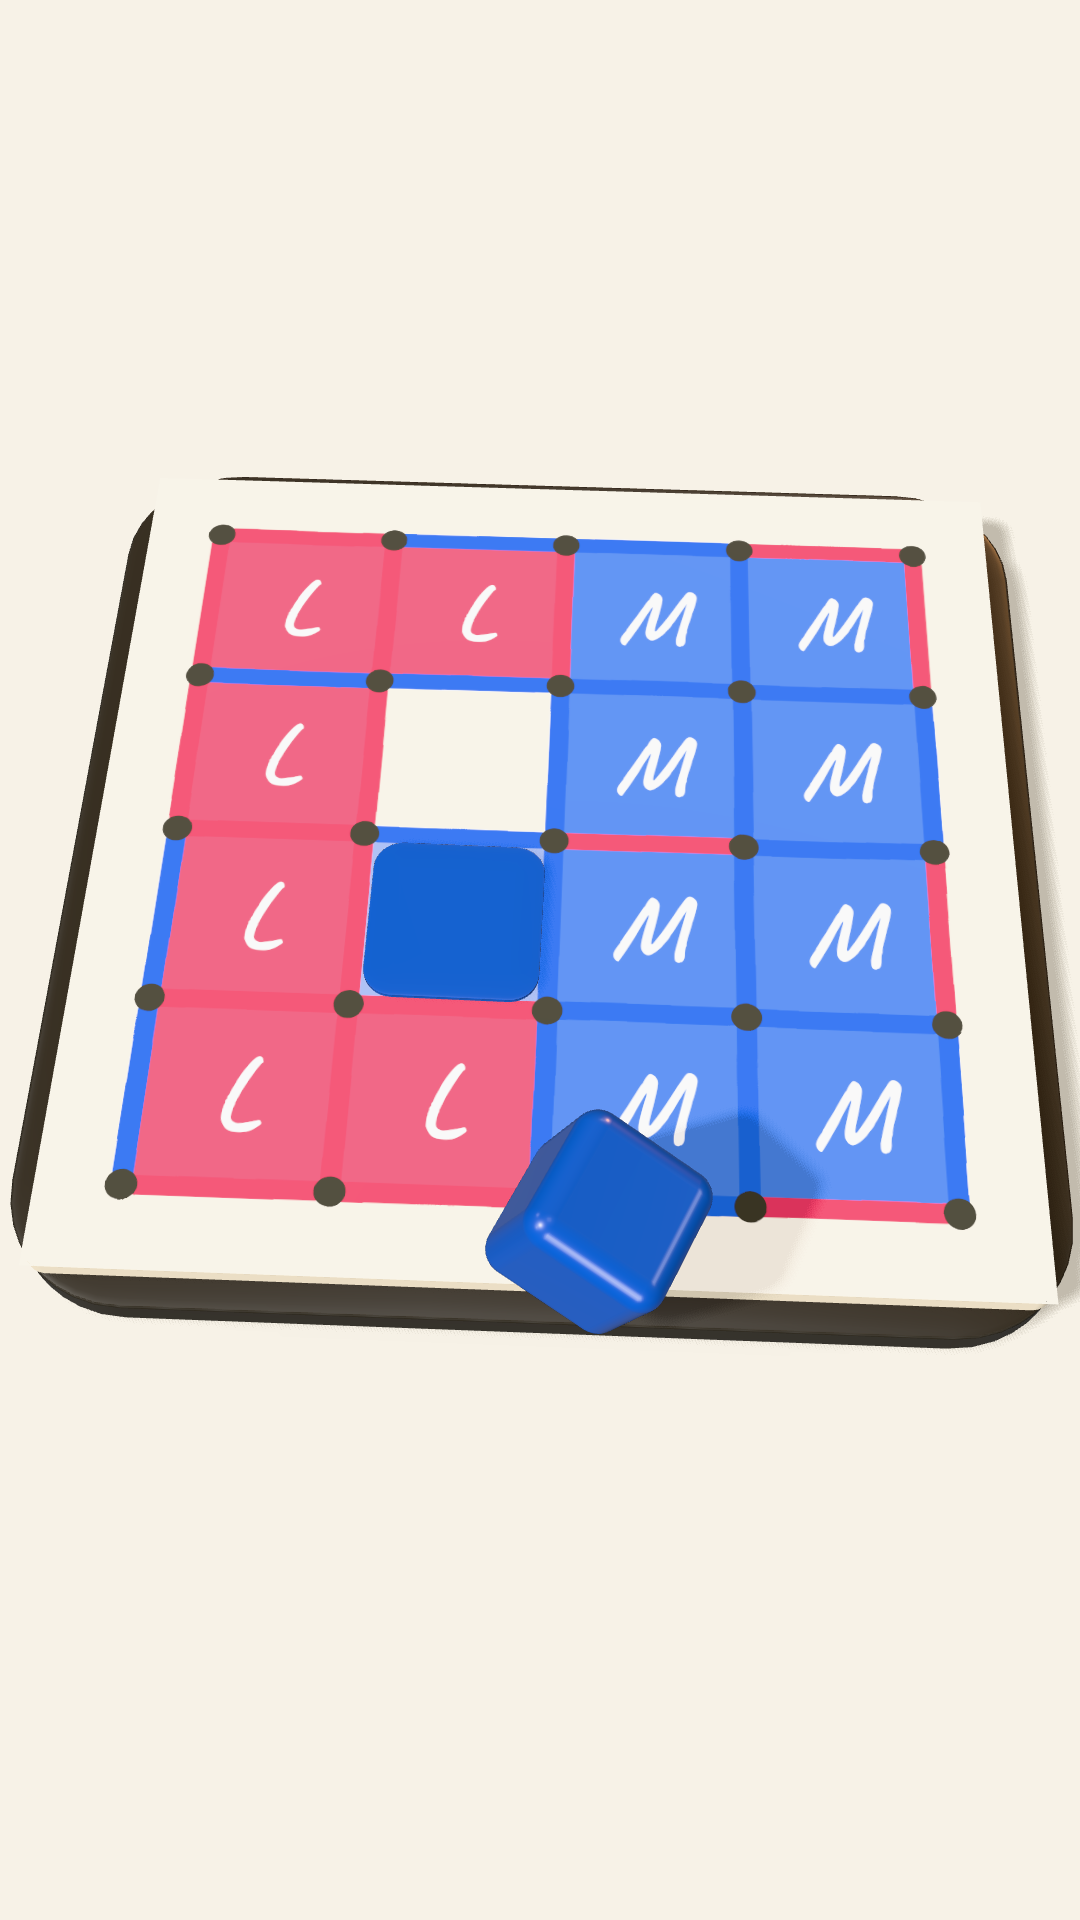
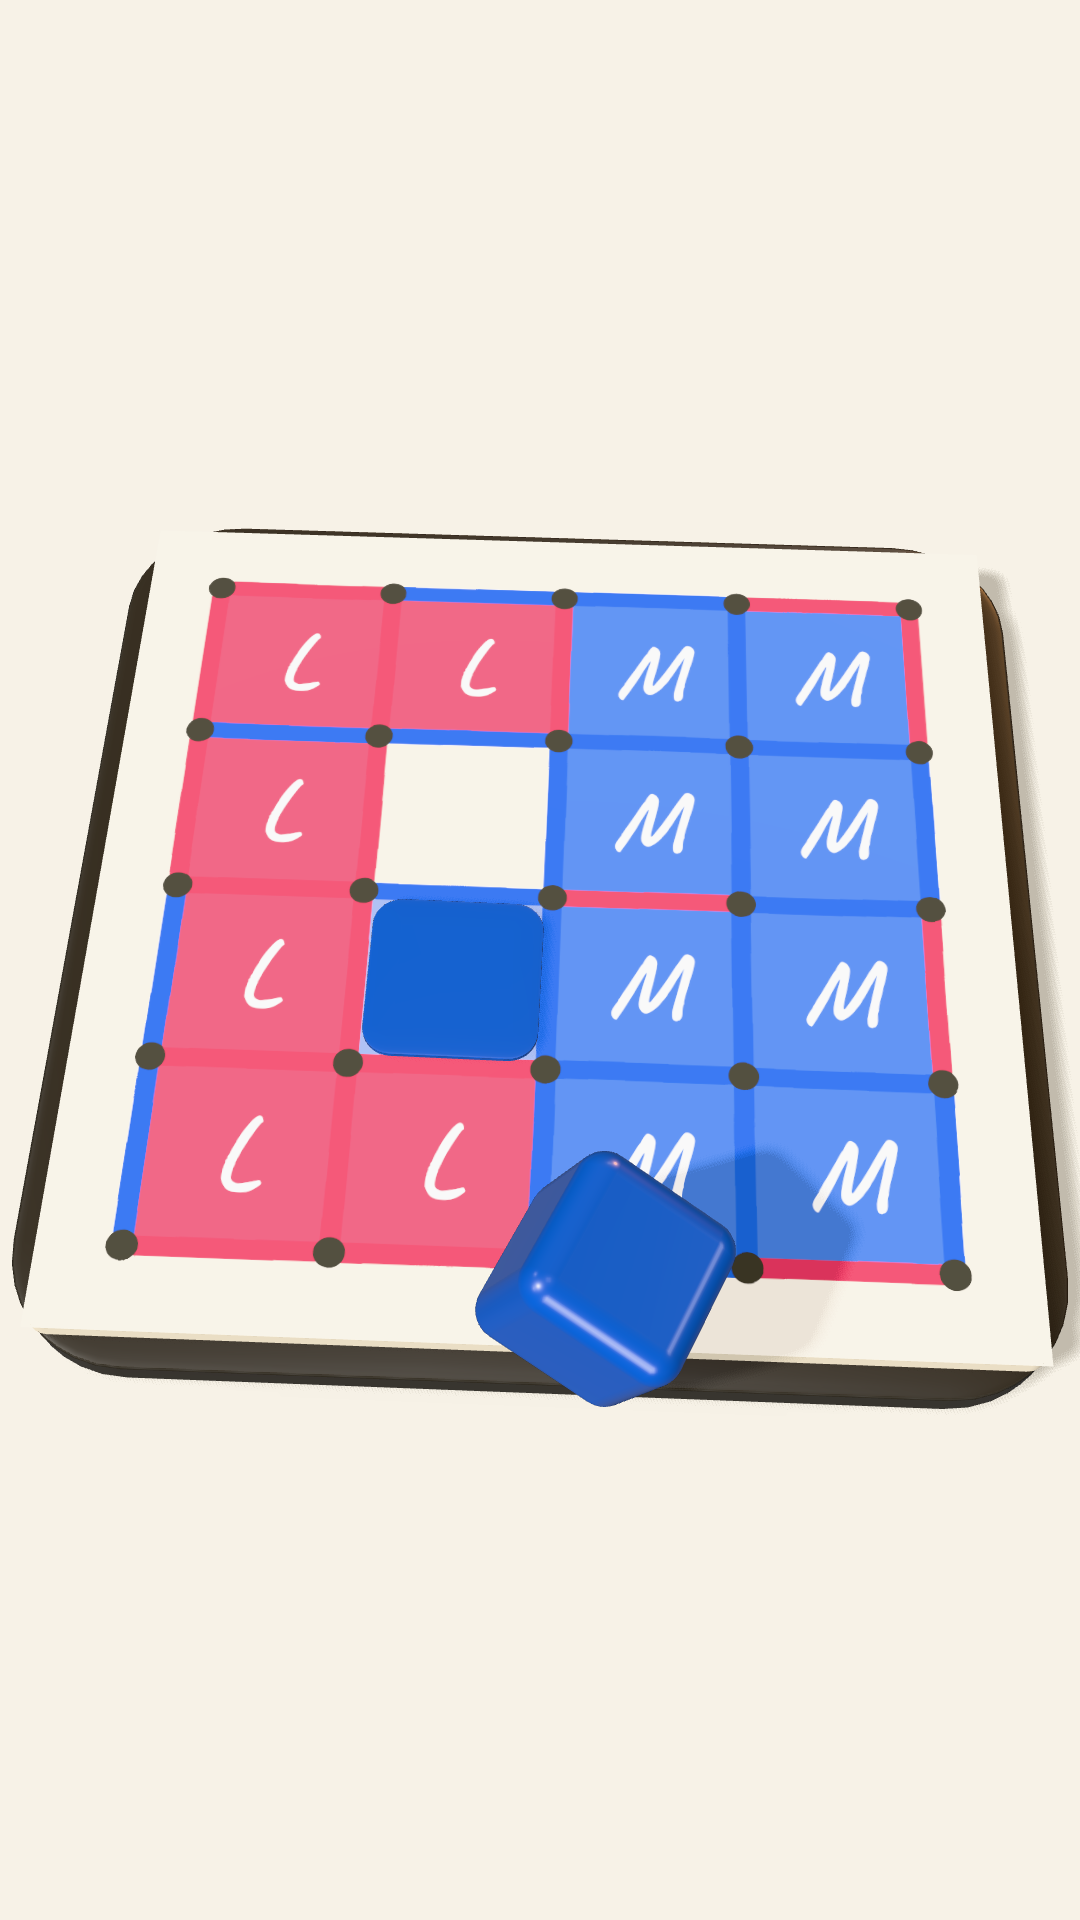
Ledger: modes verification round 2
Claude-Session: https://claude.ai/code/session_015djpT82mPv6pF3coxQuzAb

Changed region(s): [[0.0, 0.25, 1.0, 0.75]]

diff --git a/promo/scenes/score3d-layout.js b/promo/scenes/score3d-layout.js
@@ -49,16 +49,16 @@ export function cfg(V, k) {
       s07Size: 220, s07Pos: (W, H, a, b) => [W / 2 - a.width / 2 - 170, 150, W / 2 - b.width / 2 + 170, 360],
     };
   }
-  const tz = S / 2 + base.baseOut + 0.9 * cube + cube / 2;
-  return { ...base, ui: 1.25, chipUi: 1.55, chipName: 52, chipScore: 62,
-    tower: { p2: { x: -0.95 * G, z: tz }, p1: { x: 0.95 * G, z: tz } },
+  const vc = 0.8 * G, tz = S / 2 + base.baseOut + 0.7 * vc + vc / 2;
+  return { ...base, cube: vc, cubeR: 0.17 * vc, arc: 0.42 * vc + 20 * k, chipLift: 0.22 * vc, ui: 1.25, chipUi: 1.55, chipName: 52, chipScore: 62,
+    tower: { p2: { x: -1.05 * G, z: tz }, p1: { x: 1.05 * G, z: tz } },
     cam: {
       el: keys([68, 58, 52, 46, 41, 39, 38]),
       az: keys([0, 4, 7, 9, 11, 12, 12]),
-      dist: keys([1800, 2100, 2250, 2280, 2220, 2180, 2160]),
+      dist: keys([1800, 2080, 2200, 2230, 2170, 2130, 2110]),
       tx: keys([0, -20, -40, -40, -30, -30, -30]),
-      ty: keys([0, -80, -170, -250, -290, -300, -300]),
-      tz: keys([0, 230, 400, 520, 580, 590, 592]),
+      ty: keys([0, 10, 20, 40, 60, 65, 66]),
+      tz: keys([0, 150, 280, 380, 430, 440, 442]),
     },
     winSize: 132, winFrom: -160,
     // centred, above Mia's chip

diff --git a/promo/review/LEDGER.md b/promo/review/LEDGER.md
@@ -11,3 +11,4 @@ Critics never see the builder's reasoning; each round's critic is a new agent.
 | V-brand-2 | revised `review/brand/proof-{h,v}.mp4` | SHIP. Items 1,2,4,5,6 FIXED (eased push + underline draw + box pulse; masked word rises; lines on dot centres; one-line 9:16 URL, 60 px margins; mark 205 px); item 3 PARTLY (bare lower half 0.1 s h / 0.2 s v, at peak motion). Polish: 9:16 "Play free" 0.1 s earlier; bigger box pulse | Applying both polish items | end-card frame-diff 0.08–0.15 → 0.35–1.5; frozen 0.9 s → 0.3–0.4 s; contrast 5.4–13.2:1 |
 | C-modes-1 | `review/modes/proof-{h,v}.mp4` (15.0–24.5) | REVISE: (1) 9:16 online phones ~1/3 width, names 12 px; (2) headlines touch phone (16:9 "vs Computer", 9:16 "Play online"); (3) setup/lobby screens arrive with no tap, one near-snap; online line drifts, doesn't land as an edge; teal colour pass; (4) 2×2/3×3 boards aren't real sizes; (5) red TURN 4.1:1, orange "+1" 3.7:1; (6) empty right half 6.3–6.5, constant-speed drifts | Sent back: rebuild 9:16 online large/overlapping, ≥ 24 px headline clearance, taps on Back + mode buttons with eased pushes, line from tap → same edge on both boards, real 4×4/5×5 boards, darker badge/+1 text. Critic's "0.82 orange fill" rejected (white mark would fail 4.5:1) | frozen ≤ 0.25 s (pass); headline contrast 11.3:1 → pending |
 | C-score3d-1 | `review/score3d/proof-{h,v}.mp4` (10.0–15.5) | REVISE: (1) fly-through = one cube breaking off a static tower (notch; 10 reads 9) then 0.1 s jump to flat blue; (2) lighting: opposite shadows (central light), Mia's tower floats; (3) board greys 0.07–0.27 then steps to lit+base at 0.30; (4) framing: 16:9 subject ~45 % until 2.4, 9:16 off-centre, tower clipped, "Mia Wins!" floating; (5) arcs leave frame, camera jump 2.47, still-ish blue card, "Play it" enters cut | Sent back: camera push onto intact tower top + colour steer to #2f6bd8; one soft key upper-left + rim + contact shadows; continuous colour-true lit transition; reframe both aspects, title tied to tower top; spline fix; bigger chips. Critic's "start at 0° tilt" not applicable (handoff is mid-tilt by design) | blue field 45,105,215 vs 47,107,216 (pass); frozen 0 (pass); white-on-blue 5.1:1 |
+| V-modes-2 | revised `review/modes/proof-{h,v}.mp4` | ONE MORE PASS. FIXED: 9:16 online size (87 % width, names 26 px), headline clearances (195 / 47 px), real board sizes, contrast (TURN 5.4–5.6:1, +1 5.98:1), line lands as the same edge + TURN switch, no teal, no low-motion bins. PARTLY: causality. NEW: (A) room code types itself with no "Create Room" tap, "Waiting…" before a code, joined room already has 10 lines; (B) ~1.2 s with no headline 5.9–7.1; (C) 9:16 trail crosses header/TURN text; (D) 2-frame doubled line at 9.0 | Sent back: Create Room tap → code → Waiting; empty 5×5 board after join; headline handover ≤ 0.3 s gaps; trail rerouted; continuous lift | contrast all ≥ 5.4:1; frozen: only intended end hold |
